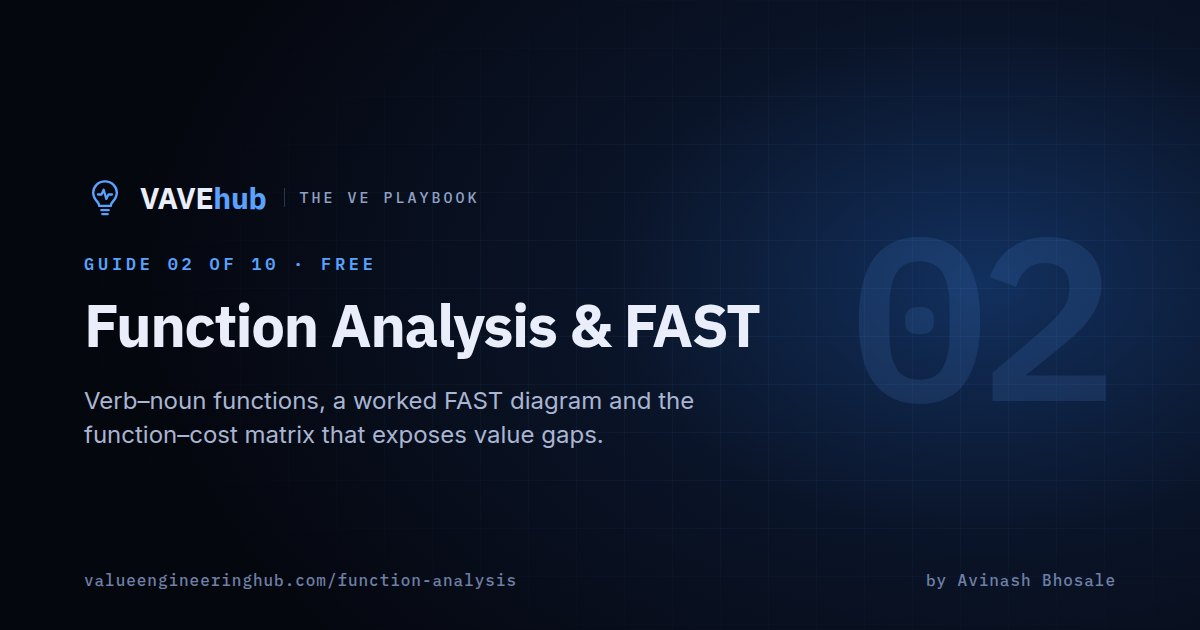
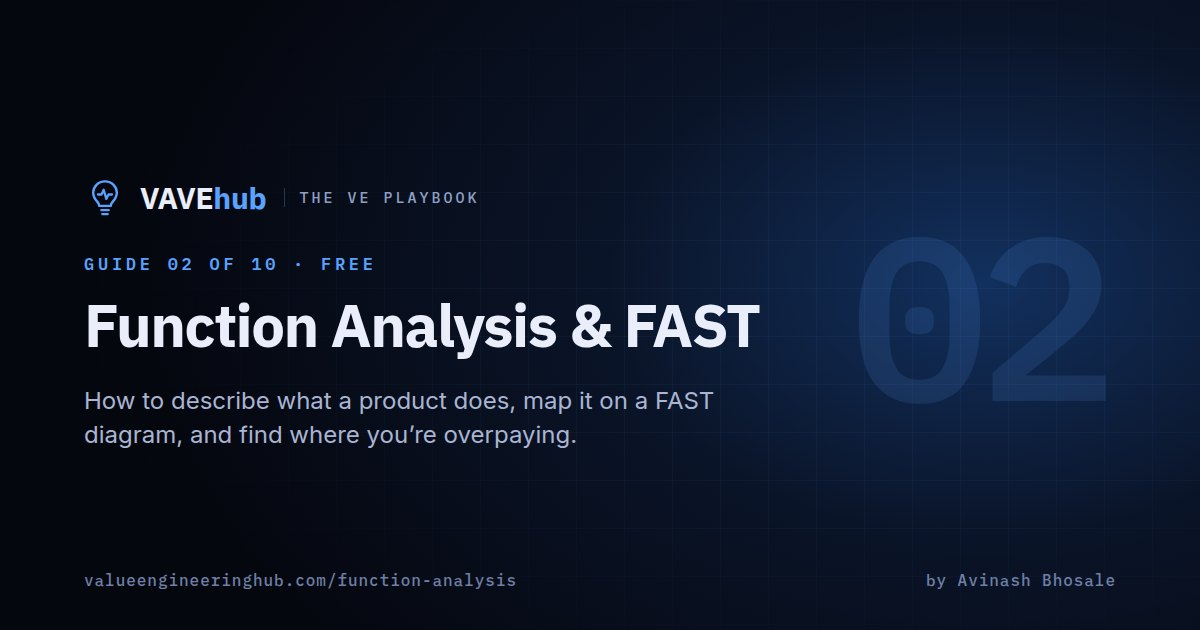
Rewrite homepage playbook card descriptions in plain English
Simpler one-line descriptions for the ten guide cards and a plainer intro
for the playbook section. Preview images regenerated, since they use the
card text as their subtitle.

Claude-Session: https://claude.ai/code/session_013T5QQURJq6sk2npuXPPgBh

Changed region(s): [[0.0617, 0.6032, 0.5858, 0.7238]]

diff --git a/index.html b/index.html
@@ -267,21 +267,21 @@
       <p class="kicker" data-reveal>02 · The Playbook</p>
       <h2 data-reveal data-delay="100">The whole discipline, <span class="grad-text">one topic at a time</span></h2>
       <p class="sec-lede" data-reveal data-delay="200">
-        Ten in-depth guides — from the six-phase job plan to teardown benchmarking — each on its own page you can
-        bookmark, share and come back to. Read them in order, or start wherever your problem is.
+        Ten guides covering the whole method, each on its own page so you can bookmark or share it. Read them in
+        order, or start with whichever one fits your problem.
       </p>
     </div>
     <div class="pb-grid" data-stagger>
-      <a class="pb-card tilt" href="job-plan/" data-reveal><span class="pb-n">01</span><h3>The 6-Phase Job Plan</h3><p>The six-phase workshop method, phase by phase: activities, tools and the deliverable each must produce.</p><span class="pb-go">Read the guide <span aria-hidden="true">→</span></span></a>
-      <a class="pb-card tilt" href="function-analysis/" data-reveal><span class="pb-n">02</span><h3>Function Analysis &amp; FAST</h3><p>Verb–noun functions, a worked FAST diagram and the function–cost matrix that exposes value gaps.</p><span class="pb-go">Read the guide <span aria-hidden="true">→</span></span></a>
-      <a class="pb-card tilt" href="cost-levers/" data-reveal><span class="pb-n">03</span><h3>36 Cost Levers</h3><p>Thirty-six proven levers in six families, with typical savings — plus a selector that ranks them for your problem.</p><span class="pb-go">Read the guide <span aria-hidden="true">→</span></span></a>
-      <a class="pb-card tilt" href="ideation/" data-reveal><span class="pb-n">04</span><h3>Idea-Generation Techniques</h3><p>Twelve battle-tested techniques for the Creative Phase — from brainwriting to TRIZ and AI copilots.</p><span class="pb-go">Read the guide <span aria-hidden="true">→</span></span></a>
-      <a class="pb-card tilt" href="technology/" data-reveal><span class="pb-n">05</span><h3>Modern Cost Technology</h3><p>The modern cost stack: AI should-cost engines, CT-scan teardown, generative design and LLM copilots.</p><span class="pb-go">Read the guide <span aria-hidden="true">→</span></span></a>
-      <a class="pb-card tilt" href="benchmarking/" data-reveal><span class="pb-n">06</span><h3>Teardown &amp; Benchmarking</h3><p>The five-step teardown process and six benchmarking dimensions, with an interactive exploded-view SUV.</p><span class="pb-go">Read the guide <span aria-hidden="true">→</span></span></a>
-      <a class="pb-card tilt" href="industries/" data-reveal><span class="pb-n">07</span><h3>Industry Playbooks</h3><p>Eight industries — typical cost structure, the levers that bite hardest, and each one's signature move.</p><span class="pb-go">Read the guide <span aria-hidden="true">→</span></span></a>
-      <a class="pb-card tilt" href="governance/" data-reveal><span class="pb-n">08</span><h3>Savings Funnel &amp; KPIs</h3><p>Run VE as an operating system: the savings funnel, the KPIs that keep it honest and the review cadence.</p><span class="pb-go">Read the guide <span aria-hidden="true">→</span></span></a>
-      <a class="pb-card tilt" href="toolkit/" data-reveal><span class="pb-n">09</span><h3>Free Toolkit</h3><p>Seven free, print-ready worksheets with editable Excel versions — FAST, matrix, agenda, tracker and more.</p><span class="pb-go">Read the guide <span aria-hidden="true">→</span></span></a>
-      <a class="pb-card tilt" href="glossary/" data-reveal><span class="pb-n">10</span><h3>Glossary</h3><p>Plain-English definitions of the terms that carry every VAVE conversation — searchable.</p><span class="pb-go">Read the guide <span aria-hidden="true">→</span></span></a>
+      <a class="pb-card tilt" href="job-plan/" data-reveal><span class="pb-n">01</span><h3>The 6-Phase Job Plan</h3><p>The six steps of a VE study, and what to do and deliver at each one.</p><span class="pb-go">Read the guide <span aria-hidden="true">→</span></span></a>
+      <a class="pb-card tilt" href="function-analysis/" data-reveal><span class="pb-n">02</span><h3>Function Analysis &amp; FAST</h3><p>How to describe what a product does, map it on a FAST diagram, and find where you’re overpaying.</p><span class="pb-go">Read the guide <span aria-hidden="true">→</span></span></a>
+      <a class="pb-card tilt" href="cost-levers/" data-reveal><span class="pb-n">03</span><h3>36 Cost Levers</h3><p>36 ways to cut product cost, with typical savings and a tool that picks the best five for you.</p><span class="pb-go">Read the guide <span aria-hidden="true">→</span></span></a>
+      <a class="pb-card tilt" href="ideation/" data-reveal><span class="pb-n">04</span><h3>Idea-Generation Techniques</h3><p>Twelve ways to come up with more, and better, cost-saving ideas in a workshop.</p><span class="pb-go">Read the guide <span aria-hidden="true">→</span></span></a>
+      <a class="pb-card tilt" href="technology/" data-reveal><span class="pb-n">05</span><h3>Modern Cost Technology</h3><p>The software and tools that make cost work faster, from should-cost software to CT scanning and AI.</p><span class="pb-go">Read the guide <span aria-hidden="true">→</span></span></a>
+      <a class="pb-card tilt" href="benchmarking/" data-reveal><span class="pb-n">06</span><h3>Teardown &amp; Benchmarking</h3><p>How to take a competitor’s product apart and learn from it, with an interactive exploded view of an SUV.</p><span class="pb-go">Read the guide <span aria-hidden="true">→</span></span></a>
+      <a class="pb-card tilt" href="industries/" data-reveal><span class="pb-n">07</span><h3>Industry Playbooks</h3><p>Where the cost sits in eight industries, and what saves the most money in each.</p><span class="pb-go">Read the guide <span aria-hidden="true">→</span></span></a>
+      <a class="pb-card tilt" href="governance/" data-reveal><span class="pb-n">08</span><h3>Savings Funnel &amp; KPIs</h3><p>How to keep VE going after the first study and follow ideas through to real savings.</p><span class="pb-go">Read the guide <span aria-hidden="true">→</span></span></a>
+      <a class="pb-card tilt" href="toolkit/" data-reveal><span class="pb-n">09</span><h3>Free Toolkit</h3><p>Seven free worksheets you can print, or fill in as Excel files.</p><span class="pb-go">Read the guide <span aria-hidden="true">→</span></span></a>
+      <a class="pb-card tilt" href="glossary/" data-reveal><span class="pb-n">10</span><h3>Glossary</h3><p>Key VE terms explained in plain English, with a search box.</p><span class="pb-go">Read the guide <span aria-hidden="true">→</span></span></a>
     </div>
   </div>
 </section>

diff --git a/tools/build.py b/tools/build.py
@@ -24,61 +24,61 @@ PAGES = [
   dict(slug="job-plan", old="save", nav="Job Plan", short="The 6-Phase Job Plan",
        title="The 6-Phase Value Engineering Job Plan",
        desc="The six phases of a Value Engineering study, from Information to Presentation, with the activities, tools and deliverable of each phase.",
-       card="The six-phase workshop method, phase by phase: activities, tools and the deliverable each must produce.",
+       card="The six steps of a VE study, and what to do and deliver at each one.",
        tldr="A value engineering study follows six steps, always in the same order. You gather the facts first, then work out what the product actually has to do. Only then do you come up with ideas, pick the best ones, build the business case and present it. Don’t judge any idea until they’re all written down. And start as early as you can, because most of a product’s cost is locked in once the design is set.",
        tries=[("VE Workshop Agenda", "toolkit/save-workshop-agenda.html")], learn=("Modules 3–8 · one module per phase", "training.html?open=m3")),
   dict(slug="function-analysis", old="fast", nav="Function Analysis", short="Function Analysis & FAST",
        title="Function Analysis & FAST Diagrams, Worked Example",
        desc="Write verb–noun functions, build a FAST diagram and use the Value Index to find what to attack — worked step by step on an electric kettle.",
-       card="Verb–noun functions, a worked FAST diagram and the function–cost matrix that exposes value gaps.",
+       card="How to describe what a product does, map it on a FAST diagram, and find where you’re overpaying.",
        tldr="Describe what the product does in two words at a time, a verb and a noun, such as “heat water” or “indicate status”. Put these functions on a FAST diagram. Read it to the right and it tells you how each function is done. Read it to the left and it tells you why. Then share the product’s cost out across the functions and compare each one with the cheapest reliable way to do the same job. The biggest gaps are where to start.",
        tries=[("FAST Diagram Worksheet", "toolkit/fast-worksheet.html"), ("Function–Cost Matrix", "toolkit/function-cost-matrix.html")], learn=("Module 4 · Function Analysis & FAST", "training.html?open=m4")),
   dict(slug="cost-levers", old="levers", nav="Cost Levers", short="36 Cost Levers",
        title="36 Cost-Reduction Levers for Product Cost",
        desc="36 proven cost-reduction levers across design, materials, manufacturing, sourcing, packaging and complexity, with typical savings for each.",
-       card="Thirty-six proven levers in six families, with typical savings — plus a selector that ranks them for your problem.",
+       card="36 ways to cut product cost, with typical savings and a tool that picks the best five for you.",
        tldr="This page lists 36 ways to take cost out of a product, grouped into six areas: design, materials, manufacturing, sourcing, packaging and logistics, and complexity. Each one says where it works best and roughly how much it usually saves. If you’re not sure where to begin, the Lever Selector on this page suggests five, based on your industry and your biggest problems.",
        tries=[("Lever Selector (on this page)", "cost-levers/#selPains"), ("VE Cheat Sheet", "toolkit/ve-cheatsheet.html")], learn=("Module 9 · Cost Levers & Should-Costing", "training.html?open=m9")),
   dict(slug="ideation", old="ideation", nav="Ideation", short="Idea-Generation Techniques",
        title="12 Idea-Generation Techniques for VE Workshops",
        desc="Brainwriting 6-3-5, SCAMPER, TRIZ, FAST-driven ideation and eight more techniques for the Creative Phase — plus a Value Index simulator.",
-       card="Twelve battle-tested techniques for the Creative Phase — from brainwriting to TRIZ and AI copilots.",
+       card="Twelve ways to come up with more, and better, cost-saving ideas in a workshop.",
        tldr="When you’re coming up with ideas, aim for as many as you can and leave the judging until later. This page covers twelve ways to keep the ideas coming. Brainwriting lets the quiet people in the room contribute as much as the loud ones. SCAMPER gives you a checklist to work through. TRIZ helps when improving one thing makes another worse, like a part that needs to be stronger but can’t get heavier. Whichever you use, think about the job the part does rather than the part itself.",
        tries=[("Idea Capture Sheet", "toolkit/idea-capture.html"), ("Value Index simulator (on this page)", "ideation/#fSlider")], learn=("Module 5 · Creative Techniques", "training.html?open=m5")),
   dict(slug="technology", old="tech", nav="Technology", short="Modern Cost Technology",
        title="Modern Cost-Engineering Technology & AI Tools",
        desc="AI should-cost engines, cleansheet models, CT-scan teardown, spend analytics, generative design and LLM copilots — the modern cost stack.",
-       card="The modern cost stack: AI should-cost engines, CT-scan teardown, generative design and LLM copilots.",
+       card="The software and tools that make cost work faster, from should-cost software to CT scanning and AI.",
        tldr="Cost work that used to take weeks can now take hours. Should-cost software reads a CAD model and estimates what a part ought to cost before any supplier quotes. CT scanning lets you see inside a competitor’s part without cutting it open. Spend analysis finds parts you’re overpaying for, using data you already have. None of this replaces a sound method, but it makes a good team a lot faster.",
        tries=[("VE Cheat Sheet", "toolkit/ve-cheatsheet.html")], learn=("Module 11 · Modern & AI-Era Techniques", "training.html?open=m11")),
   dict(slug="benchmarking", old="benchmark", nav="Benchmarking", short="Teardown & Benchmarking",
        title="Teardown & Competitive Benchmarking Guide",
        desc="Run a competitive teardown in five steps — document, disassemble, capture the BOM, should-cost, harvest ideas — with an exploded-view SUV.",
-       card="The five-step teardown process and six benchmarking dimensions, with an interactive exploded-view SUV.",
+       card="How to take a competitor’s product apart and learn from it, with an interactive exploded view of an SUV.",
        tldr="Taking a competitor’s product apart is the most reliable way to find out what a function should cost. There are five steps. Photograph and weigh everything before you touch it. Take it apart one level at a time and time each step. Record every part. Estimate what each part costs the competitor to make. Then turn what you found into ideas for your own product. Look beyond price, too. This page covers six ways to compare.",
        tries=[("Teardown BOM Capture Sheet", "toolkit/teardown-bom.html")], learn=("Module 10 · Teardown & Benchmarking", "training.html?open=m10")),
   dict(slug="industries", old="industries", nav="Industries", short="Industry Playbooks",
        title="Value Engineering Playbooks for 8 Industries",
        desc="Cost structures, highest-yield levers and signature moves for automotive, consumer goods, machinery, appliances, aerospace and more.",
-       card="Eight industries — typical cost structure, the levers that bite hardest, and each one's signature move.",
+       card="Where the cost sits in eight industries, and what saves the most money in each.",
        tldr="The method is the same in every industry, but what saves the most money isn’t. For eight industries, this page shows where the cost usually sits, which approaches save the most, and the one move that stands out. In cars, for example, 60–75% of the cost is in parts bought from suppliers, so sharing parts across models and working closely with suppliers pay off most. In consumer goods, it’s packaging, recipes and cutting the number of product variants.",
        tries=[("Lever Selector", "cost-levers/#selPains")], learn=("Module 1 · Foundations (free preview)", "training.html?open=m1")),
   dict(slug="governance", old="governance", nav="Governance", short="Savings Funnel & KPIs",
        title="VE Governance: Savings Funnel & KPIs",
        desc="Run Value Engineering as an ongoing programme: the savings funnel from idea to audited saving, the KPIs that matter, and the review cadence.",
-       card="Run VE as an operating system: the savings funnel, the KPIs that keep it honest and the review cadence.",
+       card="How to keep VE going after the first study and follow ideas through to real savings.",
        tldr="A one-off study saves money once. A programme that keeps running saves money every year. Ideas move through a funnel, from first suggestion to money actually saved, and only about one in thirteen makes it all the way. So every idea needs a named owner and a date. A few simple measures and a short monthly review keep it on track.",
        tries=[("Savings Funnel Tracker", "toolkit/savings-funnel-tracker.html")], learn=("Module 12 · Running a VE Programme", "training.html?open=m12")),
   dict(slug="toolkit", old="toolkit", nav="Toolkit", short="Free Toolkit",
        title="Free Value Engineering Templates & Worksheets",
        desc="Seven free, print-ready VE templates with editable Excel versions: FAST worksheet, cost matrix, workshop agenda, savings tracker and more.",
-       card="Seven free, print-ready worksheets with editable Excel versions — FAST, matrix, agenda, tracker and more.",
+       card="Seven free worksheets you can print, or fill in as Excel files.",
        tldr="Seven practical worksheets, free to download. Each one comes as a page you can print or save as a PDF, and as an Excel file you can fill in. You can use them yourself or within your company, as long as you credit where they came from. Each one links to the course module that shows you how to use it.",
        tries=[], learn=("The VE Academy · all 13 modules", "training.html")),
   dict(slug="glossary", old="glossary", nav="Glossary", short="Glossary",
        title="Value Engineering Glossary: Key Terms Explained",
        desc="Plain-English definitions of key Value Engineering terms — FAST, Value Index, worth, should-cost, cleansheet, LPP, DFMA and target costing.",
-       card="Plain-English definitions of the terms that carry every VAVE conversation — searchable.",
+       card="Key VE terms explained in plain English, with a search box.",
        tldr="The terms you’ll come across on this site and in the course, explained in plain English. Start typing in the search box to find one, or share a link that goes straight to a particular term.",
        tries=[("VE Cheat Sheet", "toolkit/ve-cheatsheet.html")], learn=("The VE Academy · free course", "training.html")),
 ]
@@ -269,8 +269,8 @@ def playbook_section():
       <p class="kicker" data-reveal>02 · The Playbook</p>
       <h2 data-reveal data-delay="100">The whole discipline, <span class="grad-text">one topic at a time</span></h2>
       <p class="sec-lede" data-reveal data-delay="200">
-        Ten in-depth guides — from the six-phase job plan to teardown benchmarking — each on its own page you can
-        bookmark, share and come back to. Read them in order, or start wherever your problem is.
+        Ten guides covering the whole method, each on its own page so you can bookmark or share it. Read them in
+        order, or start with whichever one fits your problem.
       </p>
     </div>
     <div class="pb-grid" data-stagger>
